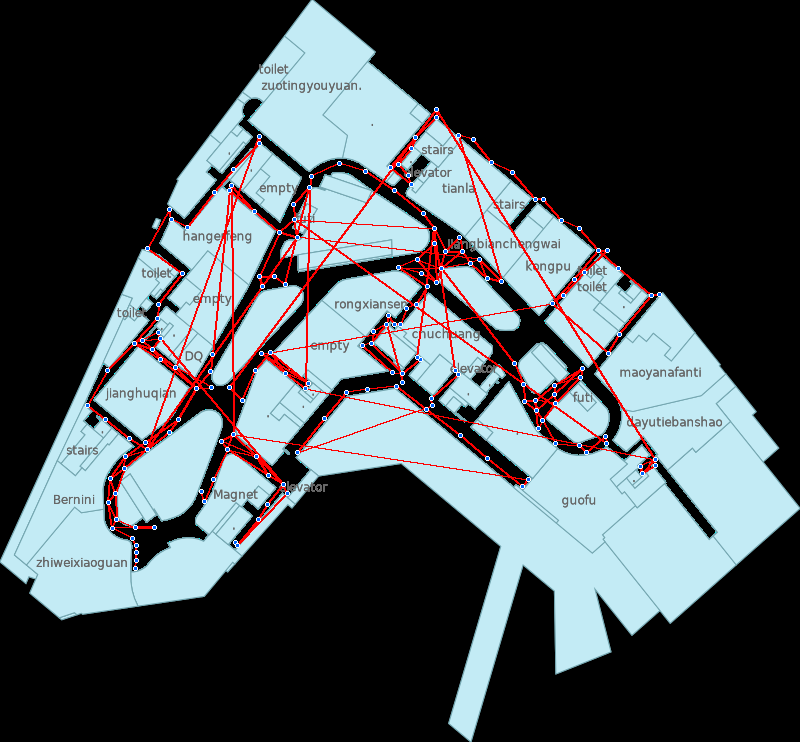
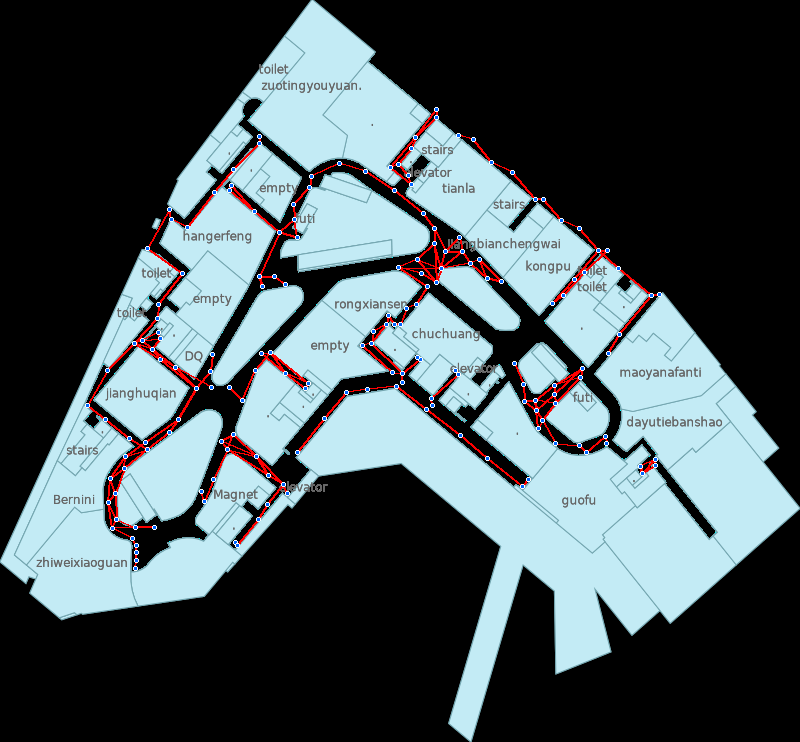
fix waypoint viz, add plt based viz and update generatered plots

diff --git a/waypoint_viz_plt.py b/waypoint_viz_plt.py
@@ -1,0 +1,53 @@
+from PIL import Image
+import numpy as np
+from pathlib import Path
+import json
+from dataset.io_f import read_data_file
+import matplotlib.pyplot as plt
+from matplotlib.ticker import MultipleLocator 
+data_dir = Path("dataset/data")
+
+for image_path in data_dir.glob("site*/**/*.png"):
+    img = Image.open(image_path).convert("RGB")
+    img_width_in_px, img_height_in_px = img.size
+    site = image_path.parent.parent.name
+    floor_info_path = image_path.parent / "floor_info.json"
+    with open(floor_info_path, encoding="utf-8") as file:
+        map_info = json.load(file)["map_info"]
+        floor_height = map_info["height"]
+        floor_width = map_info["width"]
+
+    sensor_info_path = image_path.parent / "path_data_files"
+    plt.figure(figsize=(10, 10*floor_height/floor_width))
+    colored_points = None
+    for sensor_path in sensor_info_path.glob("*.txt"):
+        sensor_data = read_data_file(sensor_path)
+        waypoints = sensor_data.waypoint
+        print(len(waypoints))
+        x = waypoints[:,1]
+        y = waypoints[:,2]
+        progress = np.linspace(0, 1, len(x))
+        plt.plot(x, y, color='red', linewidth=1)
+        colored_points = plt.scatter(x,y,c=progress,cmap="viridis",vmin=0,vmax=1,s=10)
+
+    plt.colorbar(colored_points, label='Progress')
+    plt.xlim(0, floor_width)
+    plt.ylim(0, floor_height)
+    plt.xlabel('X (meters)')
+    plt.ylabel('Y (meters)')
+    floor = image_path.parent.name
+    plt.title(f'Waypoints for {floor} in {site}')
+    plt.gca().set_aspect('equal', adjustable='box')
+    plt.gca().xaxis.set_major_locator(MultipleLocator(20))
+    plt.gca().yaxis.set_major_locator(MultipleLocator(20))
+    plt.grid(True, linestyle='--', linewidth=0.5)
+    save_path = Path("waypoint_viz") / site / f"{image_path.parent.name}.png"
+    save_path.parent.mkdir(parents=True, exist_ok=True)
+    plt.savefig(
+          save_path,
+          dpi=200,
+          bbox_inches="tight",
+          facecolor="white",
+      )
+
+    plt.close()

diff --git a/waypoint_visualization.py b/waypoint_visualization.py
@@ -16,18 +16,18 @@ for image_path in data_dir.glob("site*/**/*.png"):
         floor_width = map_info["width"]
 
     sensor_info_path = image_path.parent / "path_data_files"
-    path_points = []
+    draw = ImageDraw.Draw(img)
     for sensor_path in sensor_info_path.glob("*.txt"):
         sensor_data = read_data_file(sensor_path)
+        path_points = []
         for timestamp, x, y in sensor_data.waypoint:
             x_px = round(x / floor_width * img_width_in_px)
             y_px = round(img_height_in_px - (y / floor_height * img_height_in_px))
             path_points.append((x_px, y_px))
 
-    draw = ImageDraw.Draw(img)
-    draw.line(path_points, fill=(255, 0, 0), width=2)
-    for x, y in path_points:
-        draw.ellipse((x - 2, y - 2, x + 2, y + 2), fill=(0, 100, 255), outline =(255, 255, 255), width=1)
+        draw.line(path_points, fill=(255, 0, 0), width=2)
+        for x, y in path_points:
+            draw.ellipse((x - 2, y - 2, x + 2, y + 2), fill=(0, 100, 255), outline =(255, 255, 255), width=1)
 
     save_path = Path("waypoint_viz") / site / f"{image_path.parent.name}.png"
     save_path.parent.mkdir(parents=True, exist_ok=True)
